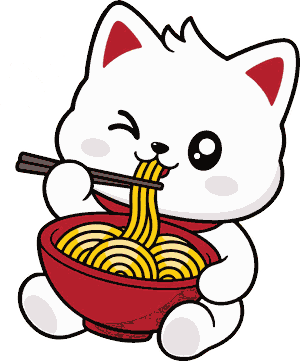
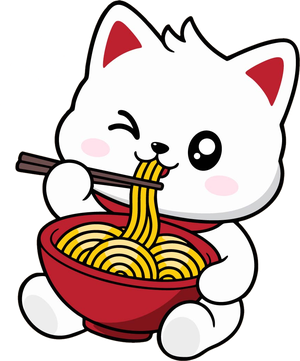
Add files via upload

diff --git a/sw.js b/sw.js
@@ -1,6 +1,6 @@
 // XYM Inventory – offline shell. Page is always fetched fresh when online (so updates arrive by themselves);
 // the saved copy is only used when there is no internet.
-const CACHE = 'xym-v4';
+const CACHE = 'xym-v5';
 const SHELL = ['./', 'index.html', 'manifest.webmanifest', 'icon-192.png', 'icon-512.png', 'apple-touch-icon.png', 'mascot.png', 'mascot-marks.png'];
 self.addEventListener('install', e => { self.skipWaiting(); e.waitUntil(caches.open(CACHE).then(c => c.addAll(SHELL))); });
 self.addEventListener('activate', e => e.waitUntil(
@@ -8,6 +8,6 @@ self.addEventListener('activate', e => e.waitUntil(
 self.addEventListener('fetch', e => {
   const r = e.request;
   if (r.method !== 'GET' || new URL(r.url).origin !== location.origin) return;   // data calls go straight to Google
-  e.respondWith(fetch(r).then(res => { const c = res.clone(); caches.open(CACHE).then(k => k.put(r, c)); return res; })
+  e.respondWith(fetch(r, { cache: 'no-cache' }).then(res => { const c = res.clone(); caches.open(CACHE).then(k => k.put(r, c)); return res; })
     .catch(() => caches.match(r).then(m => m || caches.match('index.html'))));
 });
